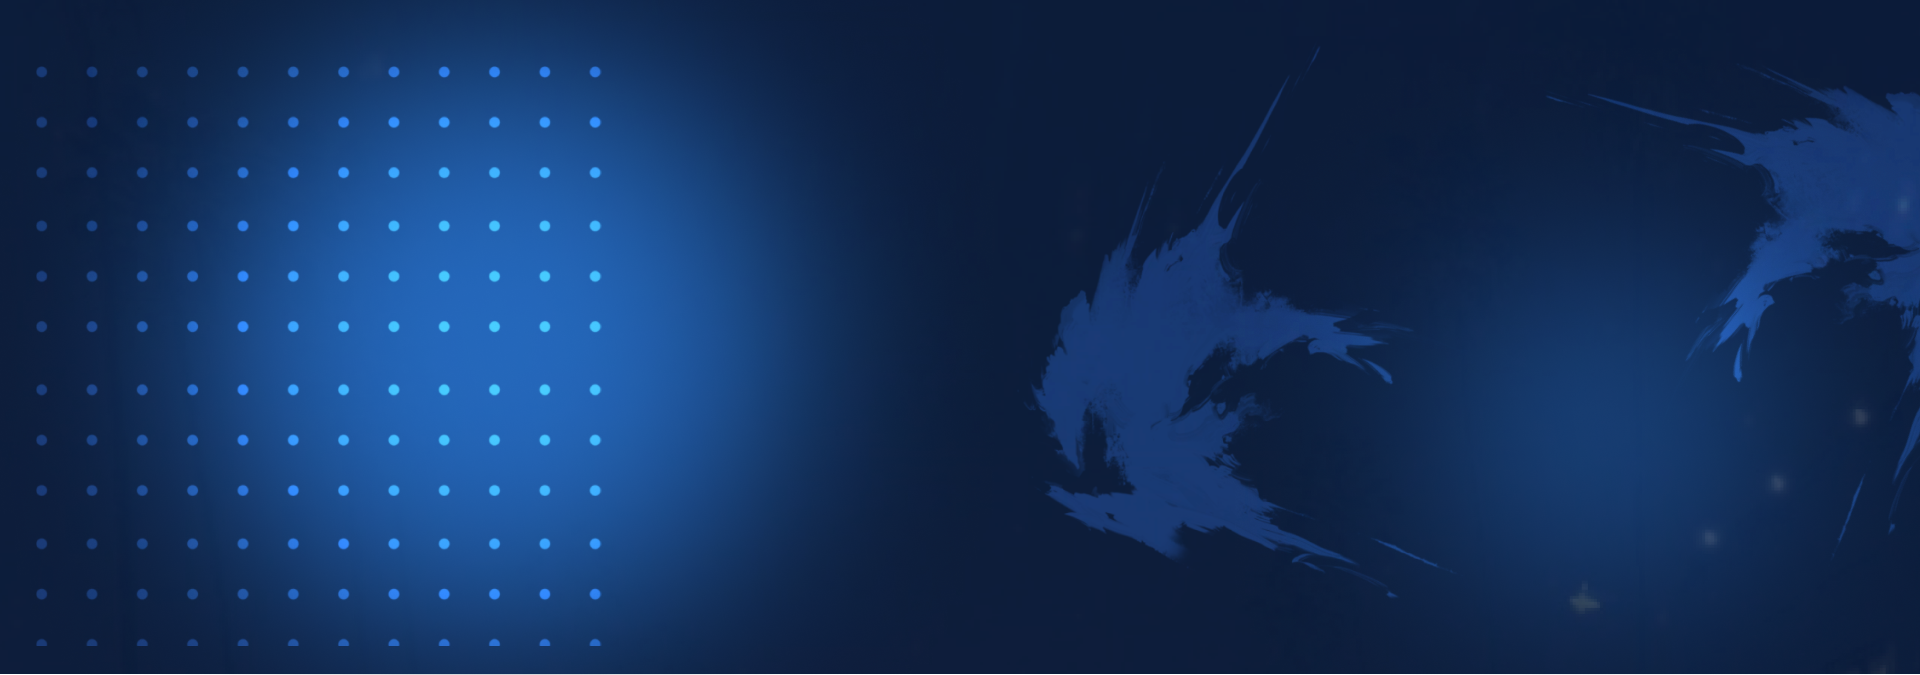
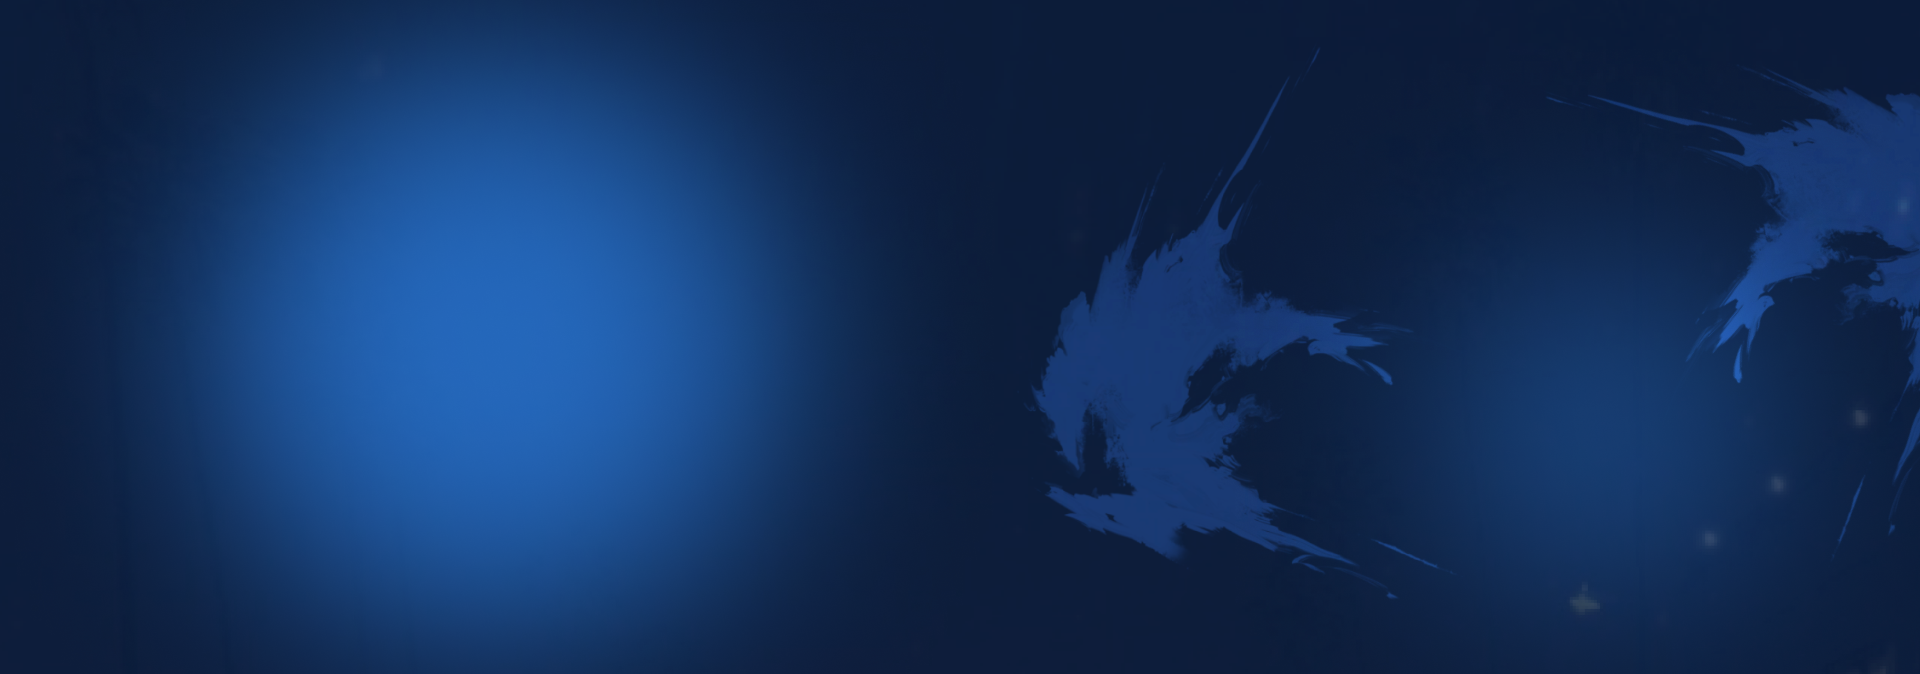
commit

diff --git a/style.css b/style.css
@@ -36,6 +36,10 @@ header{
     text-decoration: none;
     color: #FFFFFF;
 }
+.container-start{
+    background: url(./images/Group\ 72.png) no-repeat center;
+    background-size: cover;
+}
 .start-sect{
     width: 100%;
     display: flex;
@@ -365,6 +369,100 @@ footer .fop{
 footer .left{
     text-align: right;
 }
+ /*  */
+  
+ .mob-header{
+    padding: 15px 25px;
+    display: none;
+    justify-content: space-between;
+    align-items: center;
+    background-color: #318fff2e;
+}
+.mob-header > img{
+    height: 3rem;
+}
+/*  */
+.menu-btn {
+    display: block;
+    width: 50px;
+    height: 50px;
+    background-color: #318FFF;
+    border-radius: 50%;
+    position: relative;
+  }
+  .menu-btn span,
+  .menu-btn span::before,
+  .menu-btn span::after {
+    position: absolute;
+    top: 50%; margin-top: -1px;
+    left: 50%; margin-left: -10px;
+    width: 20px;
+    height: 2px;
+    background-color: #FFFFFF;
+    border-radius: 2px;
+  }
+  .menu-btn span::before,
+  .menu-btn span::after {
+    content: '';
+    display: block;
+    transition: 0.2s;
+  }
+  .menu-btn span::before {
+    transform: translateY(-5px);
+  }
+  .menu-btn span::after {
+    transform: translateY(5px);
+  }
+  .menu-block {
+    position: relative;
+    display: flex;
+    justify-content: center;
+    align-items: center;
+  }
+  .menu-nav li{
+    display: flex;
+    align-items: center;
+    column-gap: 5px;
+  }
+  .menu-nav a {
+    text-decoration: none;
+    color: #FFFFFF;
+    transition: 1s;
+    margin-right: 10px;
+  }
+  .menu-nav {
+    display: flex;
+    justify-content: space-between;
+    align-items: center;
+    transition: 0.2s;
+    transform: scaleX(0) translateX(0%);
+    transform-origin: right center;
+    opacity: 0;
+    visibility: hidden;
+    height: 50px;
+    line-height: 50px;
+    background-color: #318FFF;
+    padding-right: 25px;
+    padding-left: 25px;
+    margin-right: -25px;
+    border-top-left-radius: 50px;
+    border-bottom-left-radius: 50px;
+  }
+  .menu-nav_active {
+    transform: scaleX(1) translateX(0%);
+    opacity: 1;
+    visibility: visible;
+  }
+  .menu-btn_active span{
+    height: 0;
+}
+.menu-btn_active span::before{
+    transform: rotate(45deg);
+}
+.menu-btn_active span::after{
+    transform: rotate(-45deg);
+}
+/*  */
 @media (max-width: 1450px) {
     header, footer{
         padding: 0 60px;
@@ -515,24 +613,33 @@ footer .left{
     header{
         display: none;
     }
+    .mob-header{
+        display: flex;
+    }
     .start-sect{
         flex-direction: column;
         padding-top: 50px;
     }
     .launcher{
         flex-direction: column-reverse;
+        background: url(./images/bg-launcher-phone.png) no-repeat;
+        background-size: cover;
     }
     .start-sect .text, .start-sect > img, .launcher .text{
         width: 100%;
     }
     .launcher > img{
-        width: 80%;
+        width: 100%;
+        align-self: center;
     }
     .server{
         width: 47%;
     }
     .servers-list{
         row-gap: 3rem;
+    }
+    .new{
+        width: 100%;
     }
     footer{
         flex-direction: column;
@@ -556,3 +663,4 @@ footer .left{
         justify-content: space-between;
     }
   }
+ 

diff --git a/index.html b/index.html
@@ -11,6 +11,20 @@
     <title>Document</title>
 </head>
 <body>
+    <div class="mob-header">
+        <img src="./images/logo-footer.svg" alt="">
+        <div class="menu-block">
+            <nav class="menu-nav">
+                <li><img src="./images/home-icon.svg" alt=""><a href="">Головна</a></li>
+                <li><img src="./images/news-icon.svg" alt=""><a href="" style="color: #8fbff95d;">Новини</a></li>
+                <li><img src="./images/forum-icon.svg" alt=""><a href="" style="color: #8fbff95d;">Форум</a></li>
+            </nav>
+            <a href="#" class="menu-btn">
+              <span></span>
+            </a>
+          </div>
+    </div>
+    <div class="container-start">
         <header>
             <div class="logo">
                 <img src="./images/logo.svg" alt="logo">
@@ -18,8 +32,8 @@
             <nav class="menu">
                 <ul>
                     <li><img src="./images/home-icon.svg" alt=""><a href="">Головна</a></li>
-                    <li><img src="./images/news-icon.svg" alt=""><a href="">Новини</a></li>
-                    <li><img src="./images/forum-icon.svg" alt=""><a href="">Форум</a></li>
+                    <li><img src="./images/news-icon.svg" alt=""><a href="" style="color: #8fbff95d;">Новини</a></li>
+                    <li><img src="./images/forum-icon.svg" alt=""><a href="" style="color: #8fbff95d;">Форум</a></li>
                 </ul>
             </nav>
         </header>
@@ -39,6 +53,8 @@
                     <img src="./images/characters-start.png" alt="">
                 </section>
         </div>
+    </div>
+
         <section class="launcher" id="dowloadLauncher">
             <img src="./images/phone-launcher.png" alt="phone">
             <div class="text" >
@@ -199,6 +215,7 @@
                 <p class="left">Користувацька огода</p>
                 <p class="left">Політика конфіденційності</p>
             </div>
-        </footer>      
+        </footer>     
+        <script src="script.js"></script> 
 </body>
 </html>

diff --git a/script.js b/script.js
@@ -1,0 +1,6 @@
+
+document.querySelector(".menu-btn").addEventListener('click',function (e) {
+    e.preventDefault();
+   this.classList.toggle("menu-btn_active");
+    document.querySelector(".menu-nav").classList.toggle("menu-nav_active");
+  }); 
